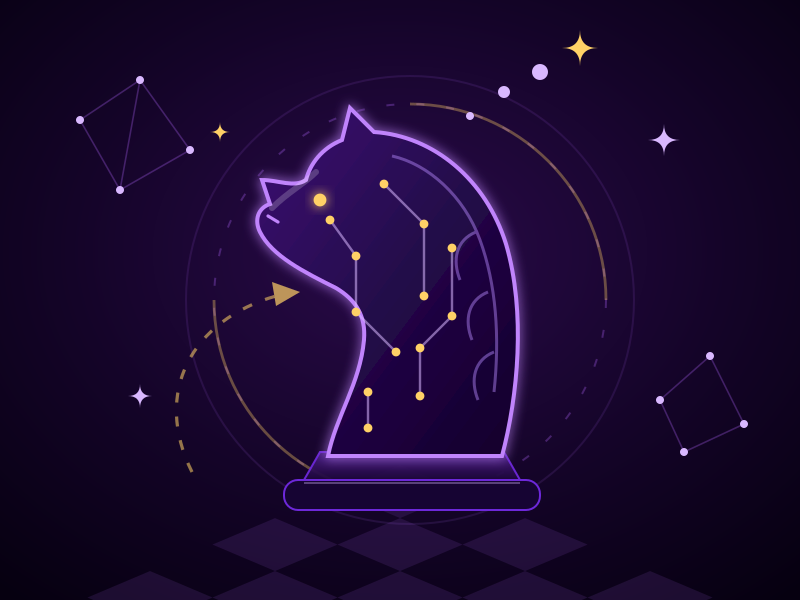
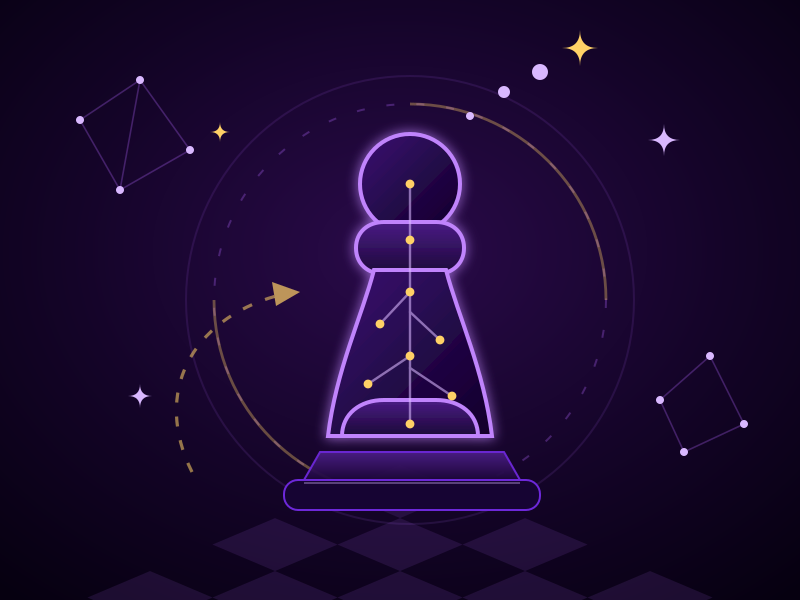
now flips card properly

Changed region(s): [[0.3125, 0.18, 0.6562, 0.78]]

diff --git a/src/ProjectArt.jsx b/src/ProjectArt.jsx
@@ -28,10 +28,8 @@ export function ChessArt() {
   }
 
   const traceNodes = [
-    [165, 110], [178, 128], [178, 156], [198, 176],
-    [192, 92], [212, 112], [212, 148],
-    [226, 124], [226, 158], [210, 174], [210, 198],
-    [184, 196], [184, 214],
+    [205, 92], [205, 120], [205, 146], [205, 178], [205, 212],
+    [190, 162], [184, 192], [220, 170], [226, 198],
   ];
 
   return (
@@ -42,7 +40,7 @@ export function ChessArt() {
           <stop offset="55%" stopColor="#140428" />
           <stop offset="100%" stopColor="#060010" />
         </radialGradient>
-        <linearGradient id="chess-knight" x1="0" y1="0" x2="1" y2="1">
+        <linearGradient id="chess-piece" x1="0" y1="0" x2="1" y2="1">
           <stop offset="0%" stopColor="#3c0d73" />
           <stop offset="55%" stopColor="#220747" />
           <stop offset="100%" stopColor="#12022a" />
@@ -95,45 +93,58 @@ export function ChessArt() {
       <rect x="142" y="240" width="128" height="15" rx="7" fill="#160433" stroke="#6d28d9" strokeWidth="1" />
       <line x1="152" y1="241.5" x2="260" y2="241.5" stroke="rgba(217,184,255,0.35)" strokeWidth="1" />
 
-      {/* the knight */}
+      {/* the pawn */}
       <g filter="url(#chess-glow)">
+        <circle
+          cx="205"
+          cy="92"
+          r="25"
+          fill="url(#chess-piece)"
+          stroke="#c084fc"
+          strokeWidth="2"
+        />
         <path
-          d="M 164 228
-             C 168 208 180 192 182 170
-             C 183 158 178 150 168 144
-             C 152 136 136 128 130 116
-             C 127 110 129 104 135 102
-             L 131 90
-             C 139 90 147 94 153 90
-             C 155 82 161 74 171 70
-             L 175 54
-             L 187 66
-             C 217 68 243 90 253 122
-             C 263 156 259 198 251 228
+          d="M 178 124
+             C 178 116 184 111 192 111
+             L 218 111
+             C 226 111 232 116 232 124
+             C 232 132 226 137 218 137
+             L 192 137
+             C 184 137 178 132 178 124
              Z"
-          fill="url(#chess-knight)"
+          fill="url(#chess-base)"
+          stroke="#c084fc"
+          strokeWidth="2"
+        />
+        <path
+          d="M 187 135
+             C 181 158 168 185 164 218
+             L 246 218
+             C 242 185 229 158 223 135
+             Z"
+          fill="url(#chess-piece)"
+          stroke="#c084fc"
+          strokeWidth="2"
+        />
+        <path
+          d="M 171 218
+             C 171 207 180 200 192 200
+             L 218 200
+             C 230 200 239 207 239 218
+             Z"
+          fill="url(#chess-base)"
           stroke="#c084fc"
           strokeWidth="2"
         />
       </g>
 
-      {/* face highlight, eye, nostril, mane */}
-      <path d="M 136 104 C 144 96 152 92 158 86" fill="none" stroke="rgba(255,255,255,0.2)" strokeWidth="3" strokeLinecap="round" />
-      <circle cx="160" cy="100" r="3.2" fill="#ffd166" filter="url(#chess-glow)" />
-      <line x1="134" y1="108" x2="139" y2="111" stroke="#c084fc" strokeWidth="1.6" strokeLinecap="round" />
-      <g fill="none" stroke="#b78aff" strokeWidth="1.5" opacity="0.45">
-        <path d="M 196 78 C 214 82 232 98 240 120 C 248 142 250 168 247 196" />
-        <path d="M 238 116 C 228 120 226 130 230 140" />
-        <path d="M 244 146 C 234 150 232 160 236 170" />
-        <path d="M 247 176 C 237 180 235 190 239 200" />
-      </g>
-
       {/* circuitry running through the piece */}
-      <g fill="none" stroke="#d9b8ff" strokeWidth="1.2" opacity="0.55">
-        <path d="M 165 110 L 178 128 L 178 156 L 198 176" />
-        <path d="M 192 92 L 212 112 L 212 148" />
-        <path d="M 226 124 L 226 158 L 210 174 L 210 198" />
-        <path d="M 184 196 L 184 214" />
+      <g fill="none" stroke="#d9b8ff" strokeWidth="1.2" strokeLinecap="round" strokeLinejoin="round" opacity="0.58">
+        <path d="M 205 92 L 205 212" />
+        <path d="M 205 146 L 190 162" />
+        <path d="M 205 178 L 184 192" />
+        <path d="M 205 156 L 220 170" />
+        <path d="M 205 184 L 226 198" />
       </g>
       <g fill="#ffd166">
         {traceNodes.map(([x, y], i) => (

diff --git a/src/TileGrid.jsx b/src/TileGrid.jsx
@@ -1,8 +1,8 @@
 // src/TileGrid.jsx
 // Notes for future devs:
-// - Card art is custom SVG (ProjectArt.jsx) living in a persistent .card-media background layer.
+// - Card art is custom SVG (ProjectArt.jsx) living inside each flip face.
 // - The blur/dim sheet (card-dim) is INSIDE .card-media, so it only dims/blurs the artwork,
-//   not the text. Flipping content (.card-flip__container) sits above both.
+//   not the text.
 // - Hoisted animateParticles inside ParticleCard to avoid TDZ issues.
 // - Mobile: onClick wired on wrapper; Enter/Space supported.
 
@@ -689,14 +689,7 @@ export default function TileGrid() {
                   tabIndex={0}
                   aria-pressed={isFlipped}
                 >
-                  {/* Persistent background artwork */}
-                  <div className="card-media" aria-hidden="true">
-                    <tile.Art />
-                    {/* Dim/blur sits ABOVE the art but BELOW flip content */}
-                    <div className={`card-dim ${isFlipped ? 'is-on' : ''}`} />
-                  </div>
-
-                  {/* Only text/content flips; background stays put */}
+                  {/* Art and text flip together. */}
                   <ReactCardFlip
                     isFlipped={isFlipped}
                     flipDirection="horizontal"
@@ -705,6 +698,9 @@ export default function TileGrid() {
                   >
                     {/* FRONT FACE */}
                     <div key="front" className="card-face card-face--front">
+                      <div className="card-media" aria-hidden="true">
+                        <tile.Art />
+                      </div>
                       <div className="absolute inset-0 flex items-center justify-center pointer-events-none">
                         <h3 className="overlay-title inline-block rounded-full bg-black/45 text-white font-bold py-2 px-4 text-lg sm:text-xl backdrop-blur-md">
                           {tile.title}
@@ -714,6 +710,10 @@ export default function TileGrid() {
 
                     {/* BACK FACE */}
                     <div key="back" className="card-face card-face--back">
+                      <div className="card-media" aria-hidden="true">
+                        <tile.Art />
+                        <div className="card-dim is-on" />
+                      </div>
                       <div className="p-4 sm:p-6 h-full w-full flex flex-col">
                         <div className="card__header mb-2">
                           <div className="card__label">{tile.content}</div>

diff --git a/src/MagicBento.css b/src/MagicBento.css
@@ -49,11 +49,11 @@
   box-shadow: 0 8px 25px rgba(0, 0, 0, 0.15);
 }
 
-/* ----- Persistent background media & dim sheet (UNDER flip content) ----- */
+/* ----- Face media & dim sheet ----- */
 .card-media {
   position: absolute;
   inset: 0;
-  z-index: 0;           /* sits at the very back inside the card */
+  z-index: 0;
   pointer-events: none;
   display: grid;
   place-items: center;
@@ -63,7 +63,7 @@
 .card-media .card-dim {
   position: absolute;
   inset: 0;
-  z-index: 1;           /* above Lottie, still below the flipping content */
+  z-index: 1;
   opacity: 0;
   transition: opacity 180ms ease;
   background: rgba(0, 0, 0, 0.66);
@@ -73,7 +73,7 @@
 }
 .card-media .card-dim.is-on { opacity: 1; }
 
-/* Flip faces sit ABOVE background/dim */
+/* Flip faces */
 .card-flip__container {
   position: relative;
   z-index: 5;                 /* higher than the blur layer */
@@ -92,6 +92,11 @@
   backface-visibility: hidden;
   -webkit-backface-visibility: hidden;
   transform-style: preserve-3d;
+}
+
+.card-face > :not(.card-media) {
+  position: relative;
+  z-index: 2;
 }
 
 /* Title chip definitely above everything */
